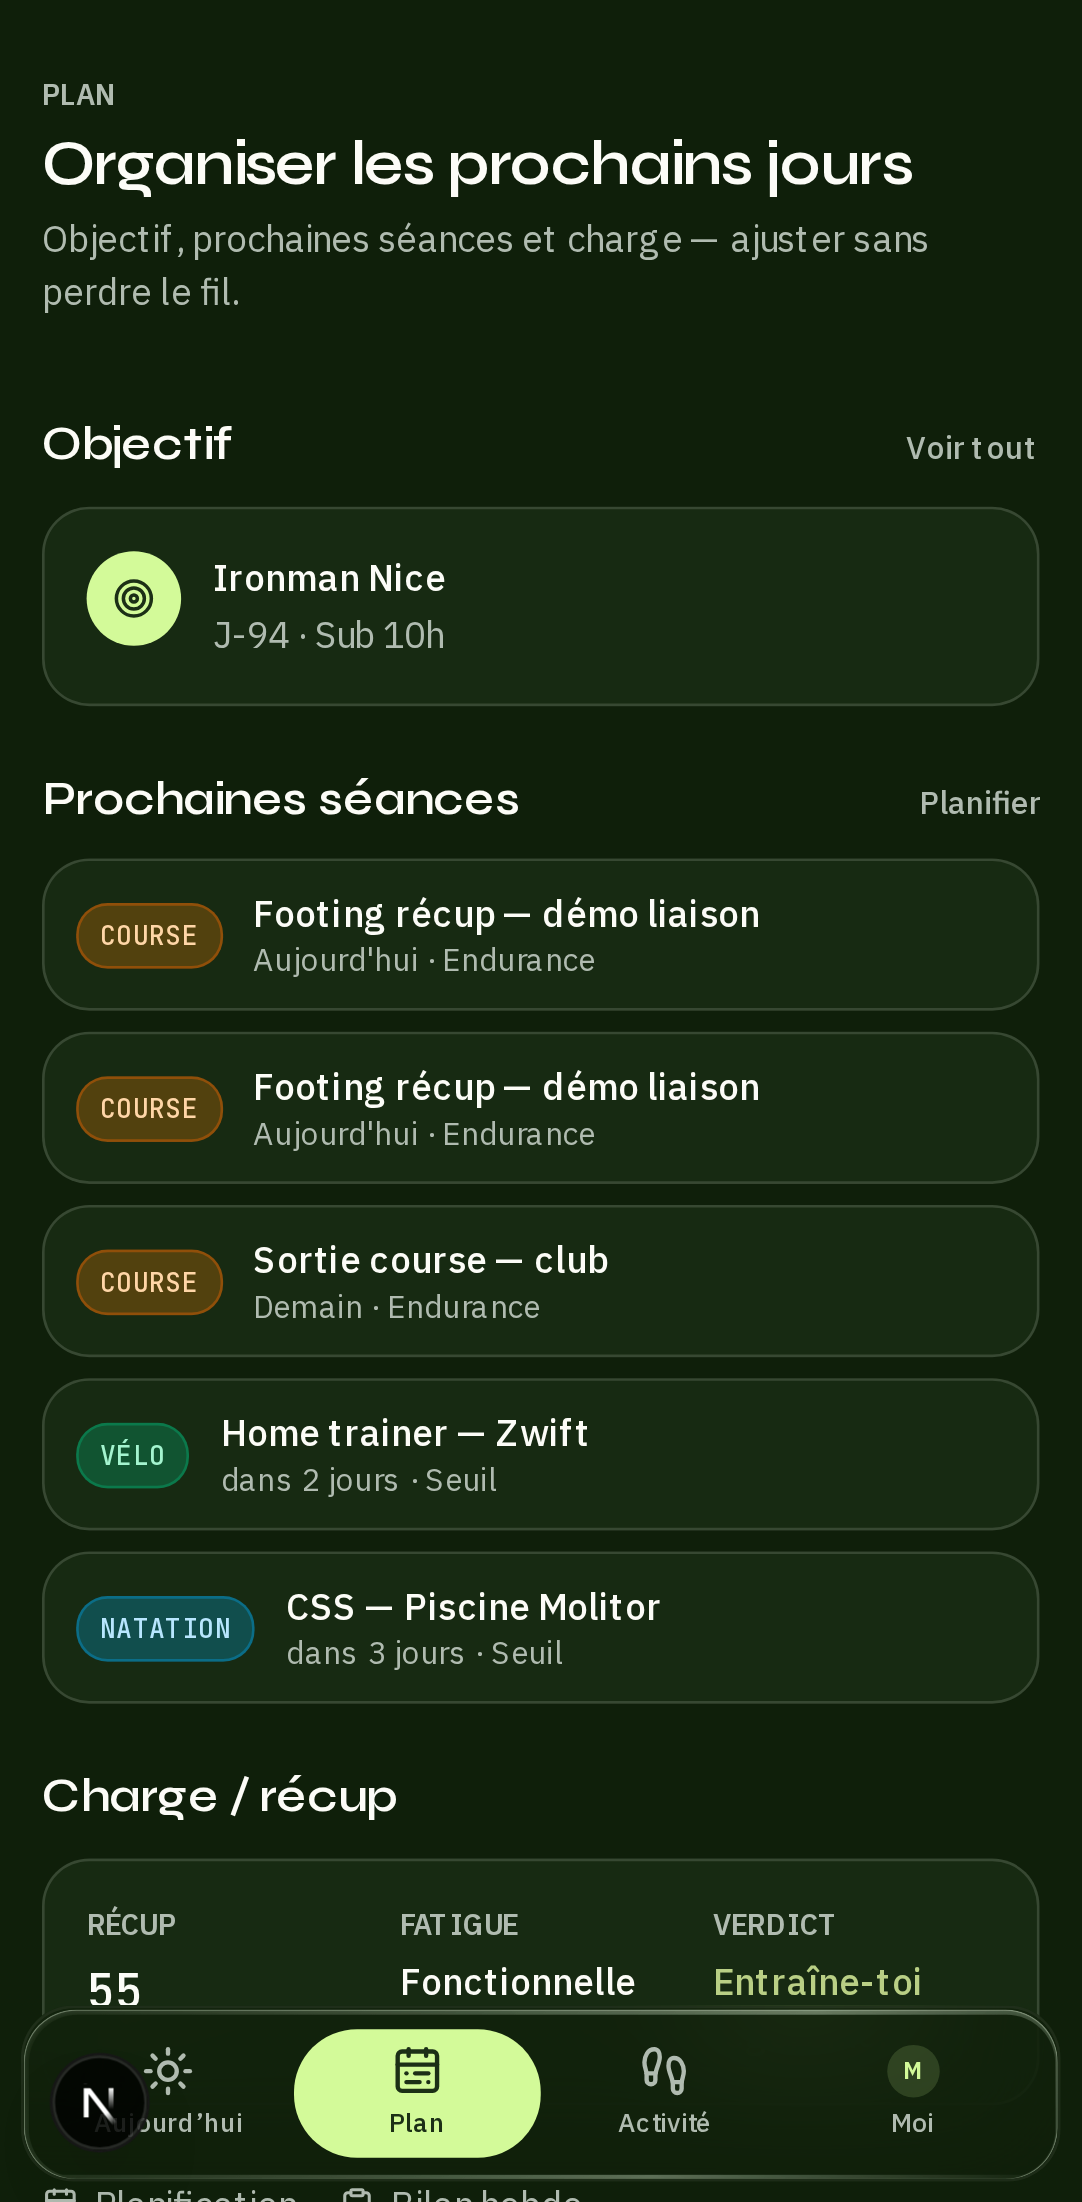
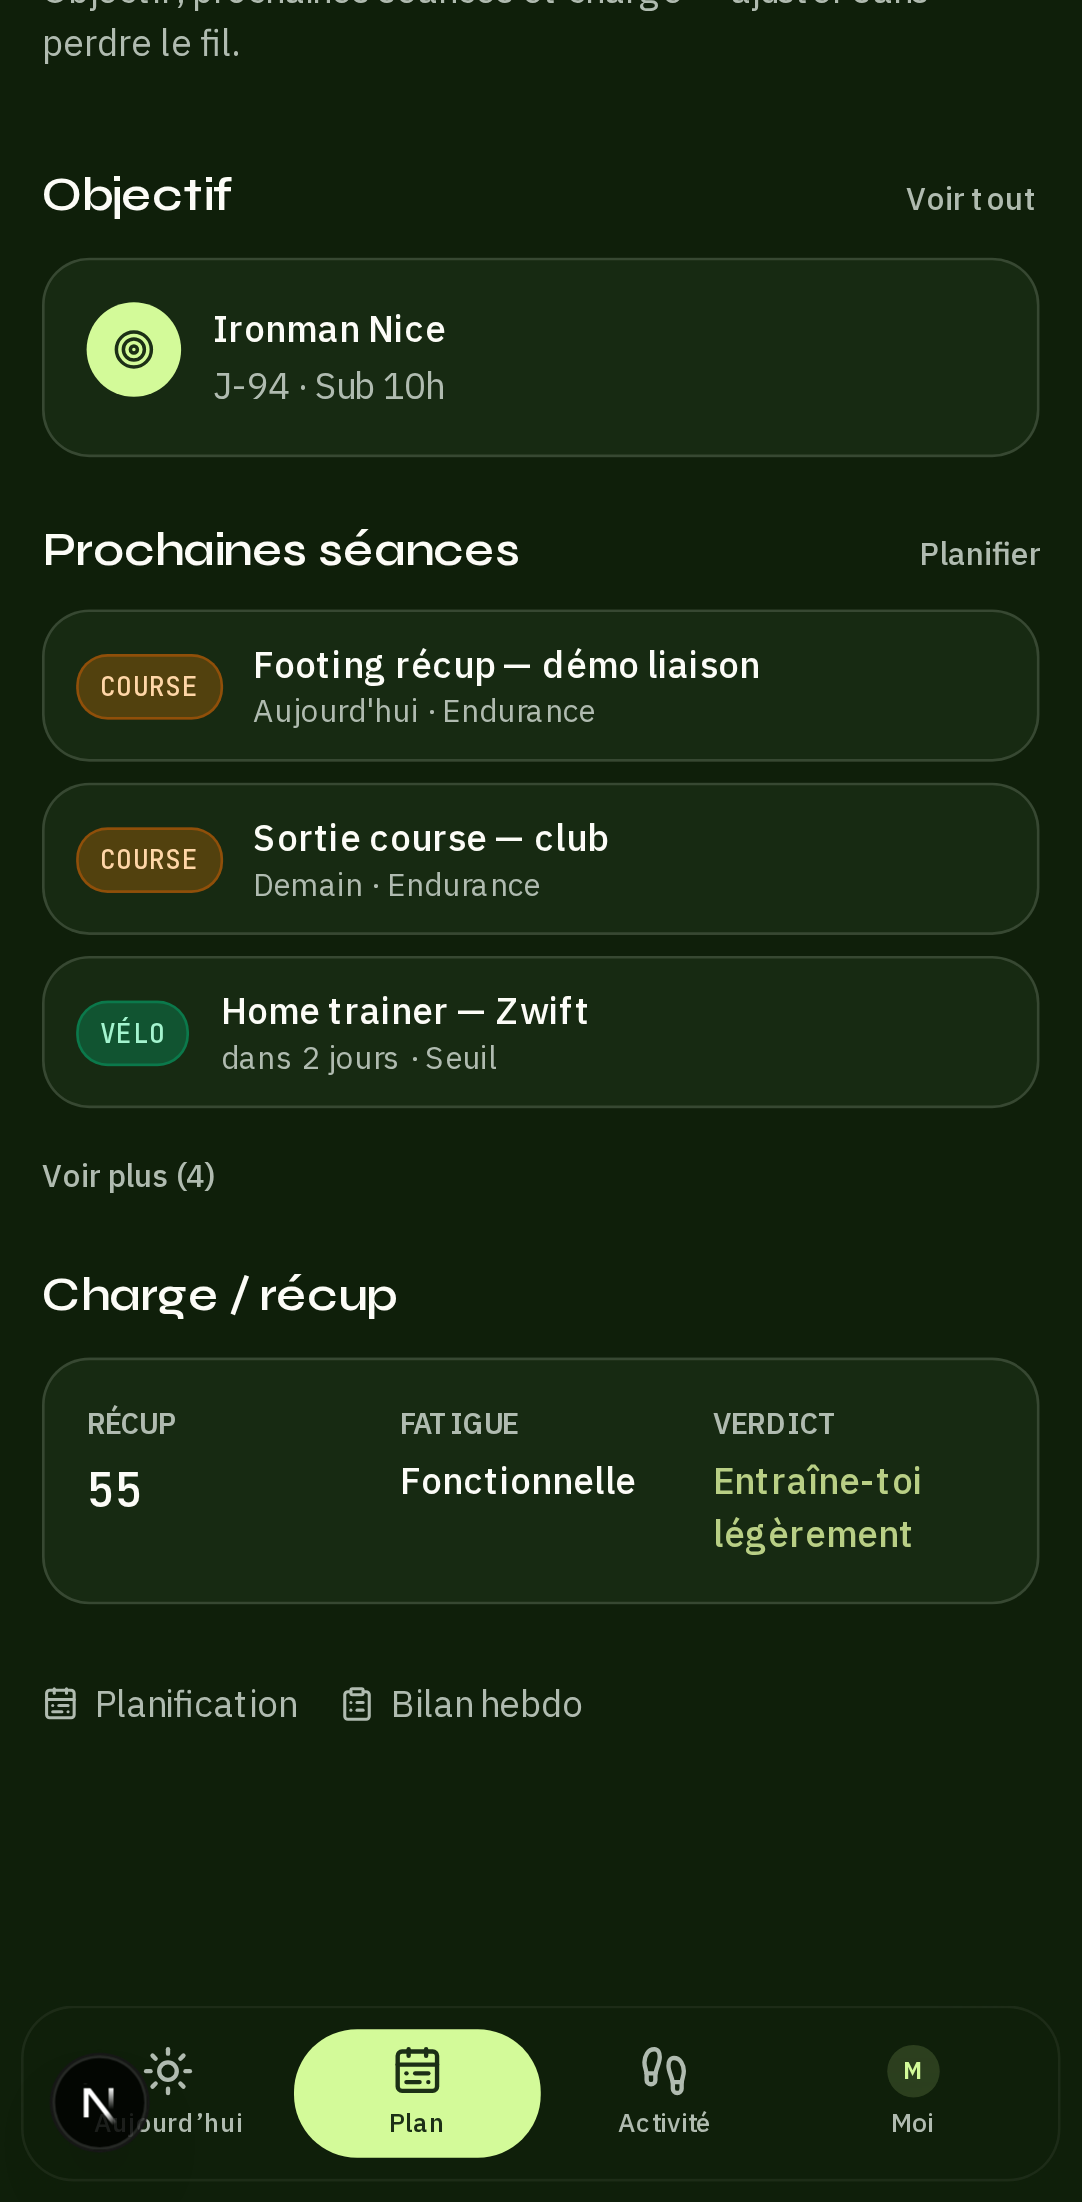
fix: clear Plan hub under tab bar and dedupe prochaines
Bump bottom-nav offset + hub padding; unique sessions by id/title-day;
cap prochaines at 3 with Voir plus; CSS frost on tab bar to keep Sun clean.

diff --git a/src/components/shell/plan-hub-widgets.tsx b/src/components/shell/plan-hub-widgets.tsx
@@ -21,7 +21,7 @@ import type { ClientPlannedSession } from '@/lib/query/types';
 import type { AthleteSnapshot } from '@/core/athlete-state/snapshot';
 import { cn } from '@/lib/utils';
 
-const UPCOMING_LIMIT = 5;
+const UPCOMING_LIMIT = 3;
 
 /** Client "today" after mount — avoids impure `new Date()` during prerender. */
 function useClientNow(): Date | null {
@@ -32,9 +32,34 @@ function useClientNow(): Date | null {
   return now;
 }
 
+function sessionDayKey(session: ClientPlannedSession): string {
+  const d = session.date instanceof Date ? session.date : new Date(session.date);
+  return startOfDay(d).toISOString();
+}
+
+/** Drop duplicate rows (same id, or same title on the same day — demo seed bug). */
+function dedupeUpcomingSessions(sessions: ClientPlannedSession[]): ClientPlannedSession[] {
+  const seenIds = new Set<string>();
+  const seenTitleDay = new Set<string>();
+  const unique: ClientPlannedSession[] = [];
+  for (const session of sessions) {
+    if (seenIds.has(session.id)) {
+      continue;
+    }
+    seenIds.add(session.id);
+    const titleDay = `${session.title ?? ''}|${sessionDayKey(session)}`;
+    if (seenTitleDay.has(titleDay)) {
+      continue;
+    }
+    seenTitleDay.add(titleDay);
+    unique.push(session);
+  }
+  return unique;
+}
+
 function upcomingSessions(sessions: ClientPlannedSession[], now: Date): ClientPlannedSession[] {
   const today = startOfDay(now);
-  return sessions
+  const horizon = sessions
     .filter((s) => !s.completed && !s.activityId)
     .filter((s) => {
       const d = s.date instanceof Date ? s.date : new Date(s.date);
@@ -48,6 +73,7 @@ function upcomingSessions(sessions: ClientPlannedSession[], now: Date): ClientPl
       const db = b.date instanceof Date ? b.date : new Date(b.date);
       return da.getTime() - db.getTime();
     });
+  return dedupeUpcomingSessions(horizon);
 }
 
 function resolveVerdict(snapshot: AthleteSnapshot | null): OverallVerdict | null {
@@ -262,6 +288,7 @@ function PlanUpcomingWidget({ verdict }: { verdict: OverallVerdict | null }) {
   const candidates = now ? upcomingSessions(plannedQuery.data ?? [], now) : [];
   const gated = gateUpcomingSessionsForVerdict(candidates, verdict);
   const proposed = gated.proposed.slice(0, UPCOMING_LIMIT);
+  const remaining = Math.max(0, gated.proposed.length - proposed.length);
   const pending = !now || (plannedQuery.isPending && !plannedQuery.data);
 
   return (
@@ -287,6 +314,14 @@ function PlanUpcomingWidget({ verdict }: { verdict: OverallVerdict | null }) {
         proposed={proposed}
         withheldCount={gated.withheld.length}
       />
+      {remaining > 0 ? (
+        <Link
+          className="text-muted-foreground hover:text-foreground text-xs font-medium"
+          href="/training/planning"
+        >
+          Voir plus ({remaining})
+        </Link>
+      ) : null}
     </section>
   );
 }
@@ -371,7 +406,7 @@ export function PlanHubWidgets() {
     : null;
 
   return (
-    <div className="space-y-6">
+    <div className="space-y-6 max-lg:pb-10">
       <PlanObjectifWidget />
       <PlanUpcomingWidget verdict={verdict} />
       <PlanLoadRecoveryWidget

diff --git a/src/components/chrome/chrome-glass.tsx b/src/components/chrome/chrome-glass.tsx
@@ -75,24 +75,27 @@ function GlassBackdrop({ cornerRadius, overLight }: { cornerRadius: number; over
       <LiquidGlass
         aberrationIntensity={overLight ? 1.15 : 1.5}
         blurAmount={overLight ? 0.12 : 0.08}
-        className="!m-0 size-full"
+        className="!m-0 size-full !transform-none"
         cornerRadius={cornerRadius}
         displacementScale={overLight ? 42 : 48}
         elasticity={0}
         mode="standard"
+        mouseContainer={null}
         overLight={overLight}
         padding="0"
         saturation={overLight ? 125 : 130}
         style={{
           height: '100%',
           left: 0,
+          margin: 0,
           position: 'absolute',
           top: 0,
           transform: 'none',
           width: '100%',
         }}
       >
-        <div className="size-full min-h-11" />
+        {/* Empty content — glass is backdrop only; avoid a second floating orb glyph. */}
+        <div className="size-full" />
       </LiquidGlass>
     </div>
   );

diff --git a/src/app/globals.css b/src/app/globals.css
@@ -184,10 +184,10 @@
     bars, chat composers — must anchor on `--bottom-nav-offset` so it can never
     swallow a nav tap.
   */
-  /* Floating glass tab bar needs air above safe-area so the last content card is not clipped. */
-  --bottom-nav-height: 5.25rem;
+  /* Floating glass tab bar — keep last hub cards / quiet links clear of the bar. */
+  --bottom-nav-height: 5.75rem;
   --bottom-nav-offset: calc(
-    var(--bottom-nav-height) + 0.75rem + env(safe-area-inset-bottom, 0px)
+    var(--bottom-nav-height) + 2rem + env(safe-area-inset-bottom, 0px)
   );
 
   /* Press feedback scales — ADR-028 / motionTokens.scale.press* */

diff --git a/src/components/layout/mobile-shell.tsx b/src/components/layout/mobile-shell.tsx
@@ -152,7 +152,10 @@ export function BottomNav() {
       <ChromeGlass
         className="pointer-events-auto mx-auto w-full max-w-lg"
         cornerRadius={20}
+        // CSS frost only — liquid-glass displacement was painting a spurious
+        // circular glyph over the Today (Sun) tab that read like a Notion « N ».
         style={{ position: 'relative', top: 'auto', left: 'auto', width: '100%' }}
+        forceFallback
       >
         <LayoutGroup id="bottom-nav">
           <div className="flex items-stretch justify-around p-2">
